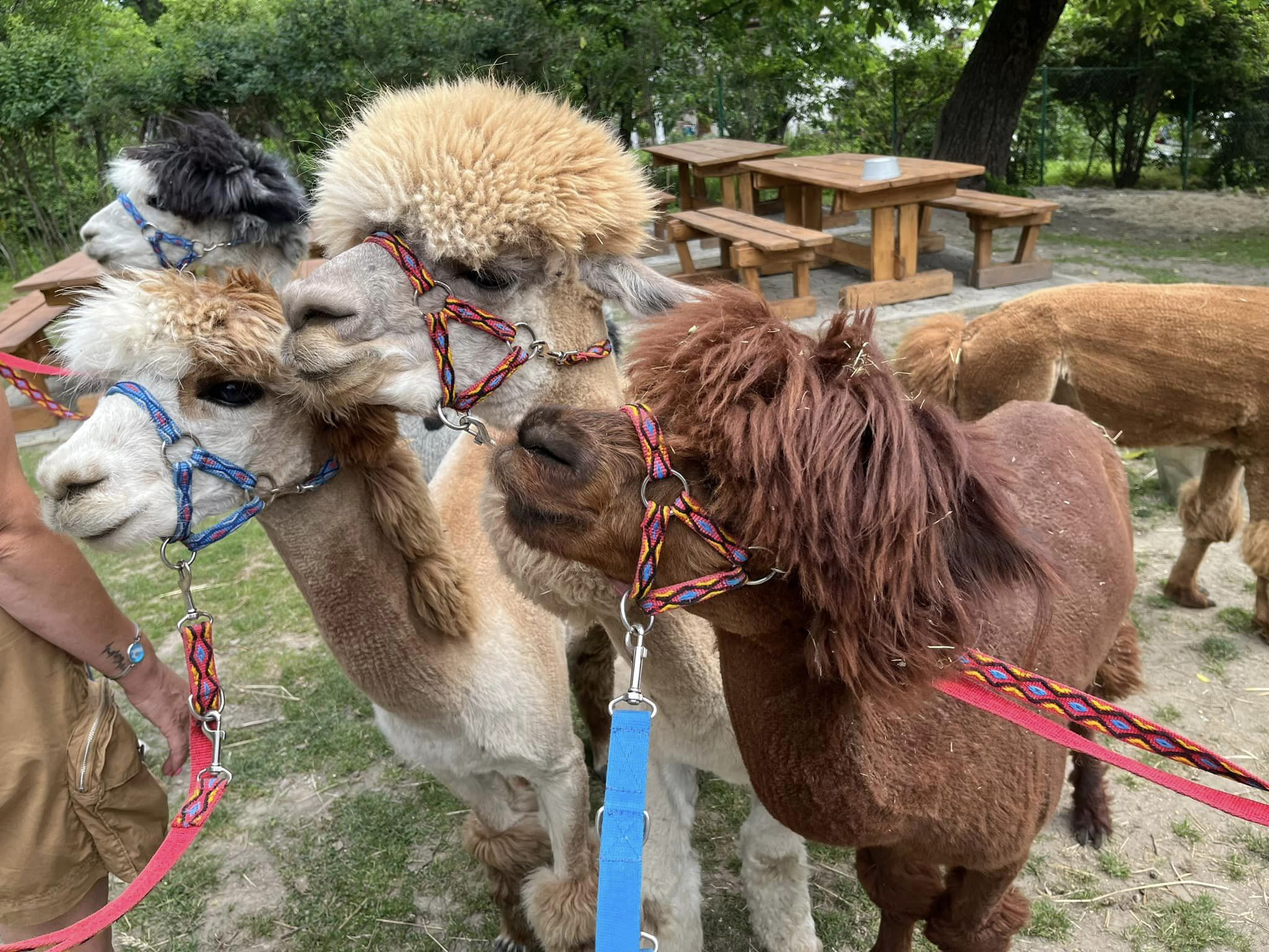
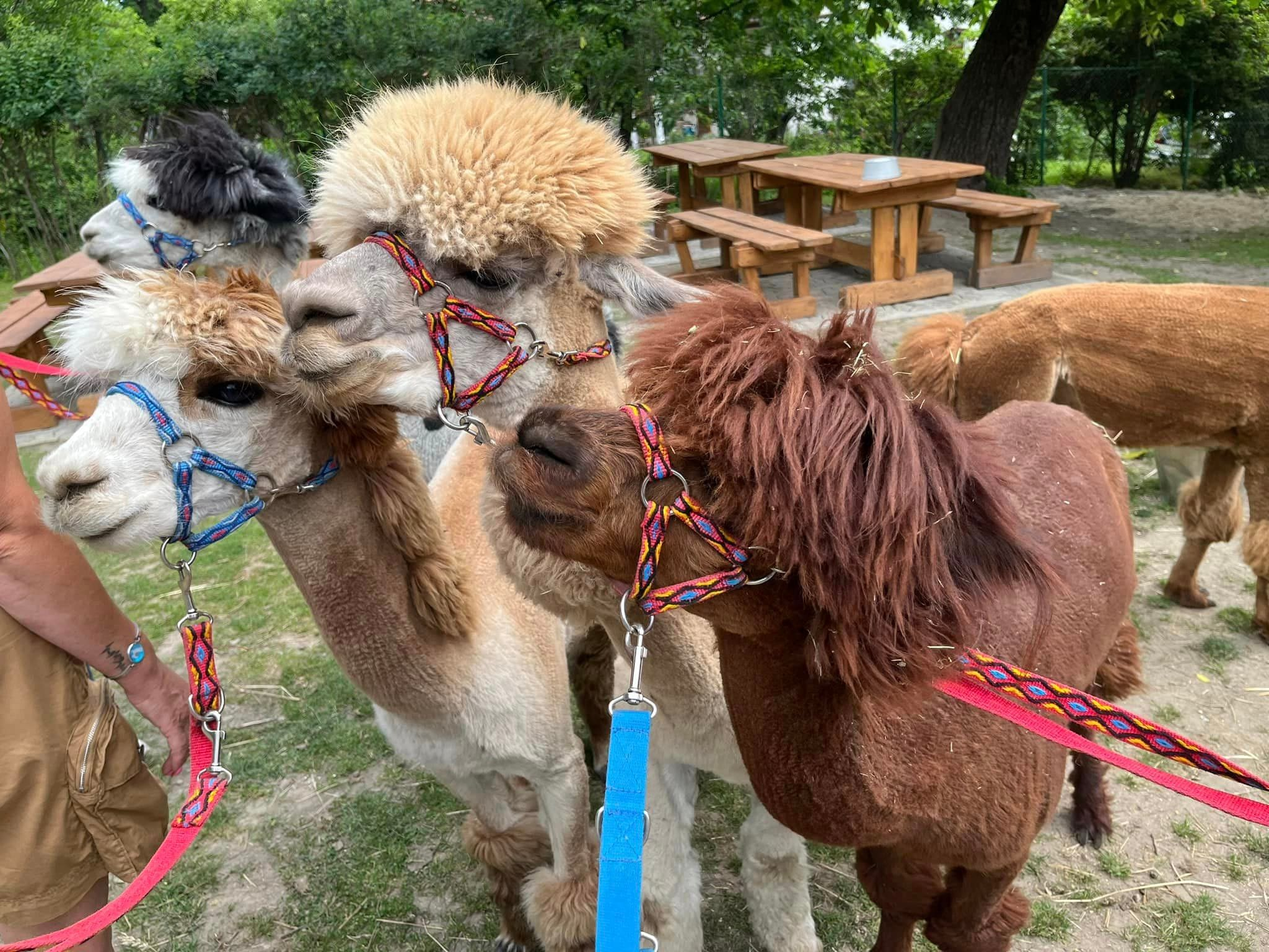
Optimize post image assets -  Zdroj

Changed region(s): [[0.4688, 0.75, 0.5312, 1.0], [0.8125, 0.7188, 0.8438, 0.75], [0.75, 0.7188, 0.7812, 0.75]]

diff --git a/posts/zdroj.md b/posts/zdroj.md
@@ -29,8 +29,6 @@ The heart of the town is the Spa House, built in 1899 after the earlier spring h
 
 I liked that Świeradów-Zdrój does not try to separate its mountain side from its spa side. The promenade, the old resort buildings, and the surrounding slopes all feel like parts of the same story.
 
-![Spa house](zdroj2.jpg)
-
 The Spa House has the kind of facade that makes you stop for a moment before going further. It feels like a reminder that travel used to be slower by design: arrive, walk, drink the water, rest, repeat.
 
 ![Spa house](zdroj3.jpg)
